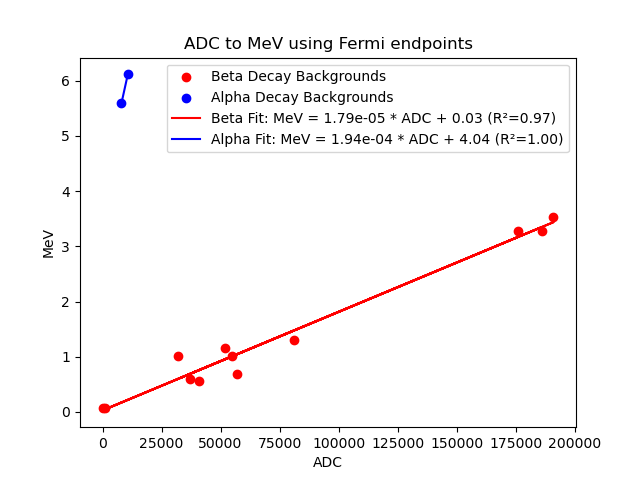
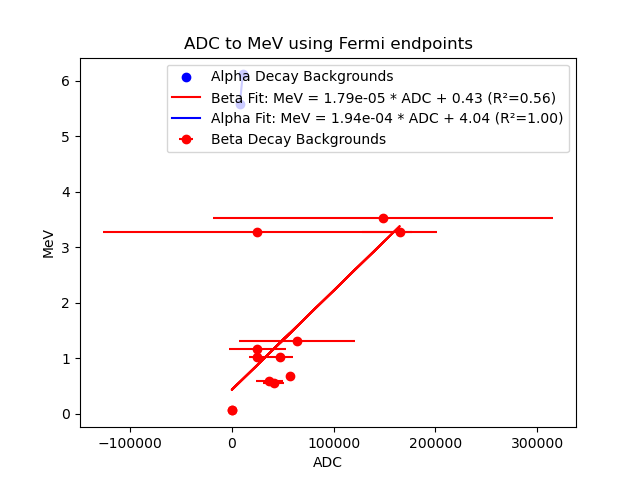
adding uncertainties

diff --git a/app/cluster_analyse.py b/app/cluster_analyse.py
@@ -95,7 +95,7 @@ print (" ")
 # my_channel_map = create_channel_map_array(which_channel_map=channel_map)
 
 #True means you want to use uniform background file, changing where images are saved etc..
-uniform = False
+uniform = True
 
 if uniform:
     clusters, n_events = read_root_file_to_clusters('/afs/cern.ch/work/h/hakins/private/root_cluster_files/es-cc-bkg-truth/X/uniformBKG/X/clusters_tick_limits_3_channel_limits_1_min_tps_to_cluster_1.root') #uniform backgrounds
@@ -133,7 +133,7 @@ exlude_expo = []#[-1,0,1,22,2] #exlude these bacgkrounds when fitting the expone
 
 '''
 new dic that matches background with its respective maximum decay energy 
-format: label: [decay type, max decay energy [MeV], charge of final state nucleus(Z)]
+format: label: [decay type, max decay energy [MeV], charge of final state nucleus(Z), uncertainty in endpoint]
 beta = 0
 aplha = 1
 dont use = 2
@@ -143,24 +143,24 @@ background_max_energy = {
     -1: [2,1],
     0: [2,1 ],
     1: [2,1 ],
-    2: [0,.565, 18], #beta
-    3: [0,.68706,36], #beta
-    4: [0,.59888,18], #beta
-    5: [0,3.525516,19], #beta 
-    6: [1, 5.59031],  # alpha (MeV)
-    7: [1, 6.11468],  # alpha (MeV)
-    8: [0, 1.0189,82],   # beta (MeV)
-    9: [0, 3.2697,83],   # beta (MeV)
-    10: [0, 63.486e-3,82], # beta (MeV)
-    11: [0, 1.31107,19], # beta (MeV)
+    2: [0,.565, 18,0], #beta
+    3: [0,.68706,36,0], #beta
+    4: [0,.59888,18,0], #beta
+    5: [0,3.525516,19,0], #beta 
+    6: [1, 5.59031,0],  # alpha (MeV)
+    7: [1, 6.11468,0],  # alpha (MeV)
+    8: [0, 1.0189,82,0],   # beta (MeV)
+    9: [0, 3.2697,83,0],   # beta (MeV)
+    10: [0, 63.486e-3,82,0], # beta (MeV)
+    11: [0, 1.31107,19,0], # beta (MeV)
     12: [2,1 ],       # No specified type or energy
-    13: [0, .59888,19], # beta (MeV)
-    14: [2, 6.11468,84],  # alpha (MeV)  #temporarily disableing this, why would in CPA be different distrigution that LAr
-    15: [0, 1.0189,82],   # beta (MeV)
-    16: [0, 3.2697,83],   # beta (MeV)
-    17: [0, 63.486e-3,82], # beta (MeV)
-    18: [0, 1.161292,83],  # beta (MeV)
-    19: [0, 2.823067,27], #beta
+    13: [0, .59888,19,0], # beta (MeV)
+    14: [2, 6.11468,84,0],  # alpha (MeV)  #temporarily disableing this, why would in CPA be different distrigution that LAr
+    15: [0, 1.0189,82,0],   # beta (MeV)
+    16: [0, 3.2697,83,0],   # beta (MeV)
+    17: [0, 63.486e-3,82,0], # beta (MeV)
+    18: [0, 1.161292,83,0],  # beta (MeV)
+    19: [0, 2.823067,27,0], #beta
     20: [2,1 ],
     21: [2,1 ],
     22: [2,1 ]
@@ -271,6 +271,7 @@ for label_num, charge_list in charge_lists.items():
     
     #fit sigmoid to hist data
     if label_num not in exlude_expo:
+        '''
         cut = np.std(charge_list)
         cut_charge_list = [x for x in charge_list if x >= cut] # charge cut to cut out spike at low energies
         fig_expo = plt.figure()
@@ -297,7 +298,7 @@ for label_num, charge_list in charge_lists.items():
         except RuntimeError as e:
             print(f'Could not fit exponential to {labels[label_num]}')
             
-        
+        '''
         #Fit Fermi Function
         alpha = .007297
         m = .511 #MeV
@@ -340,10 +341,11 @@ for label_num, charge_list in charge_lists.items():
         plt.xlabel('Total Charge per Cluster [-.25 + ADC/10^5 ]')  
         plt.ylabel('Number of Clusters') 
         x = (bins[:-1] + bins[1:]) / 2  # Get x values for the center of each bin
+     
         try:
             params, pcov = curve_fit(N, x, hist_fit, p0=[background_max_energy[label_num][2],4,background_max_energy[label_num][1]])
-            x_curve = np.linspace(min(x), max(x)+.2, 100)
-            plt.plot(x_curve, N(x_curve, *params), 'r-', label='Beta Fit')
+            x_curve = np.linspace(min(x), max(x)+.2, 100) 
+            plt.plot(x_curve, N(x_curve,background_max_energy[label_num][2], params[1],params[2]), 'r-', label='Beta Fit')
             plt.show()
             if uniform:
                 fig_fermi.savefig(f'plots/with_fermi_uniform/{labels[label_num]}_ADC.png')
@@ -352,14 +354,22 @@ for label_num, charge_list in charge_lists.items():
 
             plt.clf()
                     #find endpoint using fermi fit ^
-            start = .25
+            start = .5
             end = np.max(charge_list_plt) 
             step = .01
             max_adc = 0
+            unc_count = 0
+            fit_min = 100
             for x in range(int((end-start)/step)+1):
                 T = start + x*step
-                if N(T,*params) < 5:
-                    max_charge_fermi[label_num] = (T-.25)*scale
+                val = N(T,*params)
+                if val < 3:
+                    unc_count+=step #uncertainty measured by how "steep" the curve minimum is
+                    if val < fit_min: #find minimum of curve
+                        fit_min = val
+                        max_charge_fermi[label_num] = (T-.25)*scale #record energy at minimum value of curve
+            uncertainty = unc_count*scale
+            background_max_energy[label_num][3] = uncertainty
                     #print(f"Endpoint for {labels[label_num]} is {T}")
         except RuntimeError as e:
             print(f"Could not fit {labels[label_num]}")
@@ -385,6 +395,7 @@ else:
 #create two lists for beta and alpha decay background endpoints for linear fit
 beta_adc_fermi = []
 alpha_adc_fermi = []
+uncertainties = []
 
 for key in background_max_energy:
     print("Background: " + labels[key] + " Max ADC using Fermi: " + str(max_charge_fermi[key]))
@@ -392,11 +403,13 @@ for key in background_max_energy:
         beta_adc_fermi.append(41000)
         beta_MeV.append(background_max_energy[2][1])
         beta_adc.append(max_charge[key])
+        uncertainties.append(10000)
     if key not in exlude:
         if background_max_energy[key][0] == 0:
             beta_adc.append(max_charge[key])
             beta_adc_fermi.append(max_charge_fermi[key])
             beta_MeV.append(background_max_energy[key][1])
+            uncertainties.append(background_max_energy[key][3])
             
         elif background_max_energy[key][0] == 1:
             alpha_adc.append(max_charge[key])
@@ -419,8 +432,9 @@ beta_fit_line = f'Beta Fit: MeV = {slope_B:.2e} * ADC + {intercept_B:.2f} (R²={
 alpha_fit_line = f'Alpha Fit: MeV = {slope_a:.2e} * ADC + {intercept_a:.2f} (R²={r_value_a**2:.2f})'
 print("Beta slope: " + str(slope_B))
 print("Alpha slope: " + str(slope_a))
-plt.scatter(beta_adc_fermi, beta_MeV, color = 'red', label='Beta Decay Backgrounds')
+#plt.scatter(beta_adc_fermi, beta_MeV, xerr=uncertainties, color = 'red', label='Beta Decay Backgrounds')
 plt.scatter(alpha_adc_fermi,alpha_MeV, color = 'blue', label='Alpha Decay Backgrounds')
+plt.errorbar(beta_adc_fermi, beta_MeV, xerr=uncertainties, fmt='o', color='red', label='Beta Decay Backgrounds')
 plt.plot(beta_adc_fermi, [slope_B * x + intercept_B for x in beta_adc_fermi], color='red', label=beta_fit_line)
 plt.plot(alpha_adc_fermi,[slope_a * x + intercept_a for x in alpha_adc_fermi], color='blue', label=alpha_fit_line)
 
